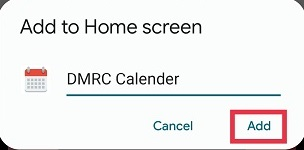
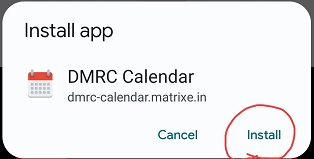
improved

diff --git a/index.html b/index.html
@@ -9,6 +9,7 @@
     <link rel="stylesheet" href="output.css?v=2.3">
     <!-- <script src="https://cdn.tailwindcss.com"></script> -->
     <link rel="icon" type="image/x-icon" href="resources/logo.png">
+    <link rel="manifest" href="manifest.json">
     <title>DMRC Calendar 2023</title>
 </head>
 
@@ -67,19 +68,22 @@
             </div>
         </div>
     </div>
+    <div class="mx-5 md:mx-40 my-5">
+        <p>Tags: DMRC Calendar 2023, DMRC Calendar, DMRC Calendar PDF, DMRC Calendar 2023 PDF</p>
+    </div>
     <div class="md:hidden mx-5 my-5">
-        <b class="text-lg">Steps to add Calendar to home screen in chrome browser</b>
+        <b class="text-lg">Steps to install/add Calendar to home screen in chrome browser</b>
         <div class="my-5">
             <p>1. Click on 3 vertical dots</p>
-            <img src="resources/step1.jpg" alt="step1" class="rounded-lg">
+            <img src="resources/step1.jpg?v=1.0" alt="step1" class="rounded-lg">
         </div>
         <div class="my-5">
-            <p>2. Click on 'Add to Home screen'</p>
-            <img src="resources/step2.jpg" alt="step1" class="rounded-lg">
+            <p>2. Click on 'Install App'</p>
+            <img src="resources/step2.jpg?v=1.0" alt="step1" class="rounded-lg">
         </div>
         <div class="my-5">
-            <p>3. Click 'Add'</p>
-            <img src="resources/step3.jpg" alt="step1" class="rounded-lg">
+            <p>3. Click 'Install'</p>
+            <img src="resources/step3.jpg?v=1.0" alt="step1" class="rounded-lg">
         </div>
         <p>Follow similar steps in other browsers </p>
     </div>
@@ -125,7 +129,7 @@
                                 <td class="border border-white">4</td>
                                 <td class="border border-white">2024-01-04</td>
                                 <td class="border border-white">Others</td>
-                                <td class="border border-white">Training DMRA</td>
+                                <td class="border border-white">Training</td>
                             </tr>
                         </tbody>
                     </table>
@@ -133,7 +137,9 @@
             </li>
         </ul>
     </div>
-    <p class="py-3 text-center">Developer: satishkushwahdigital@gmail.com</p>
+    <p class="py-3 text-center">Developed by: <a href="https://matrixe.in" target="_blank"
+            class='underline text-blue-500'>matrixe.in
+            Coders</a></p>
     <script>
         function updateImg() {
             document.getElementById("month").src = 'resources/loader.gif';
